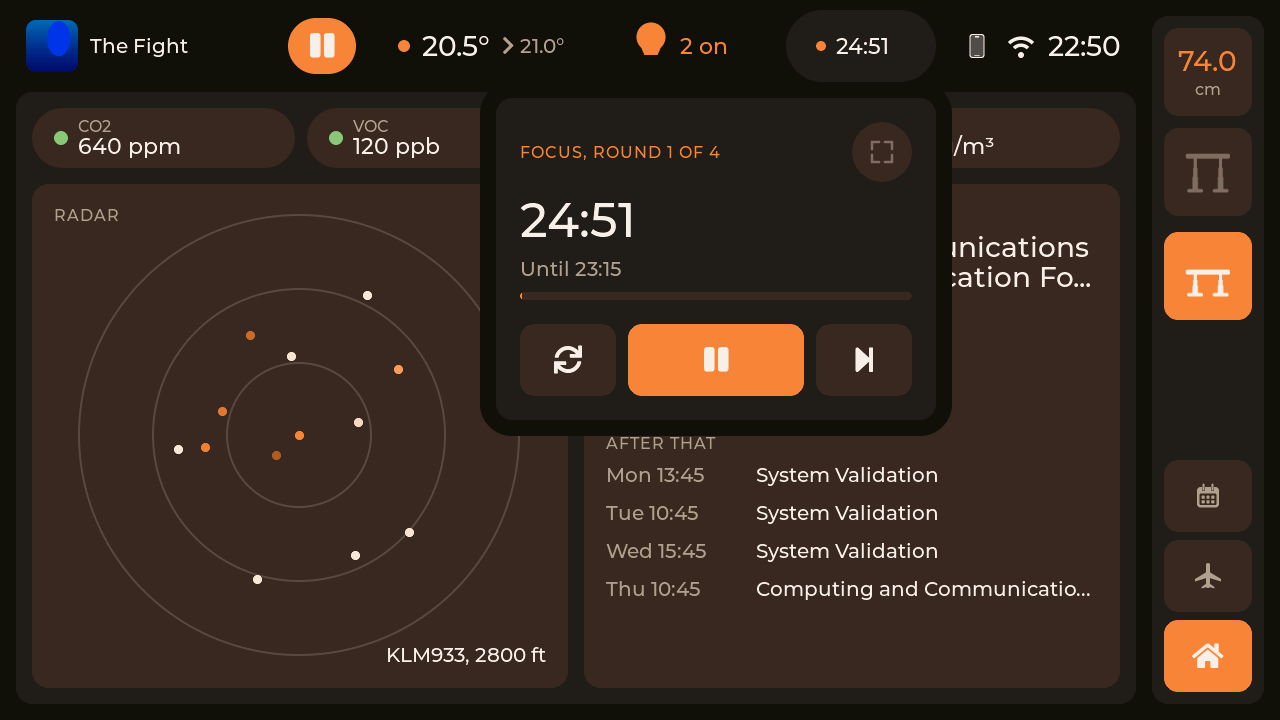
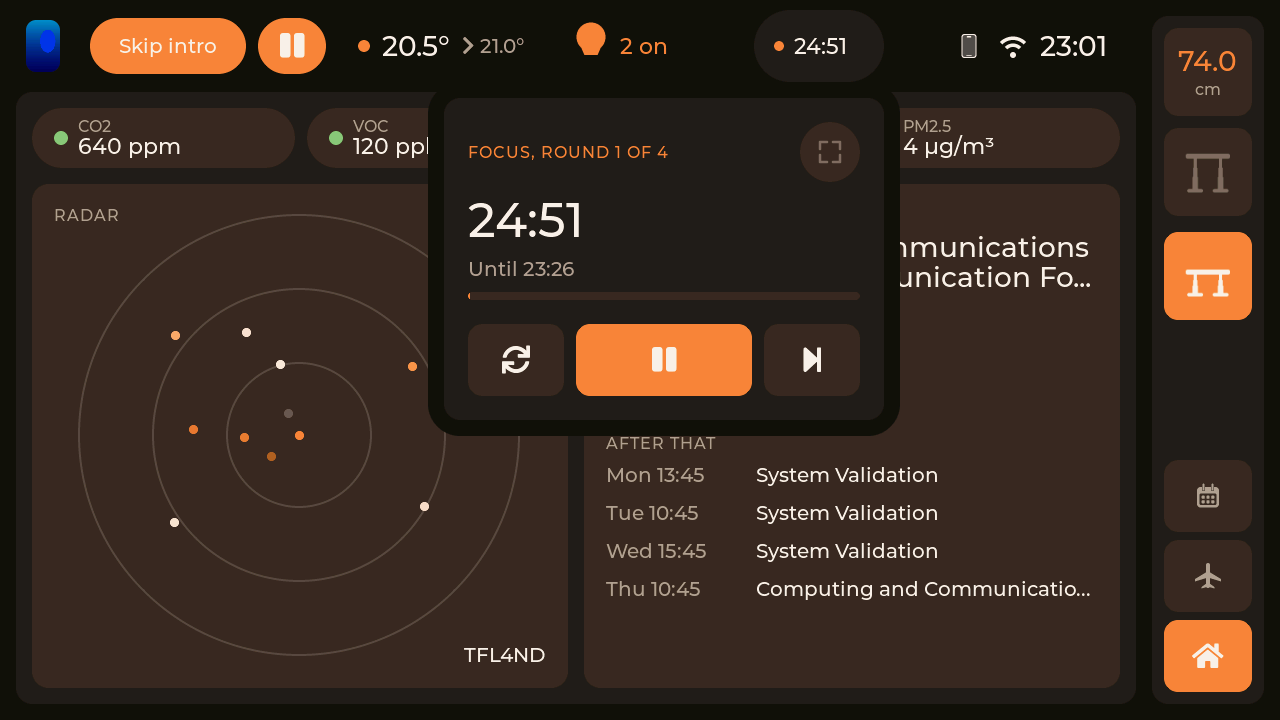
Give what plays in the bar what Home's card had: a poster whole rather than cut square, Skip intro or Next episode in the title's place while it is offered, a video's series and episode in its card, a hold sending the desk to the preset set for it or opening the favourites while nothing plays, and a

diff --git a/components/ui/control_bar.cpp b/components/ui/control_bar.cpp
@@ -19,9 +19,12 @@ namespace {
 constexpr std::int32_t BTN_H        = 56;  // a button inside a slot
 constexpr std::int32_t SLOT_PAD     = 10;
 constexpr std::int32_t SLOT_TAP     = 6;   // half the gap to the next slot, which takes the rest
-constexpr std::int32_t MEDIA_W      = 350;
-constexpr std::int32_t HEAT_W       = 210;
-constexpr std::int32_t LIGHTS_W     = 170;
+// With the timer and the status, as wide as the bar is with the battery and an
+// update both showing, so nothing ever runs off its end.
+constexpr std::int32_t MEDIA_W      = 320;
+constexpr std::int32_t HEAT_W       = 190;
+constexpr std::int32_t LIGHTS_W     = 150;
+constexpr std::uint32_t SKIP_CHECK_MS = 500;
 constexpr std::int32_t THUMB        = 52;
 constexpr std::int32_t THUMB_RADIUS = 10;
 constexpr std::int32_t PLAY_W       = 68;
@@ -88,6 +91,7 @@ void open_under(Popout &p, lv_obj_t *slot)
 // A cover to show at any size: its own descriptor, pointed at the model's
 // pixels, scaled into the frame it is in.
 struct Cover {
+    std::int32_t   side  = 0;        // its height, and its width for a square cover
     lv_obj_t      *frame = nullptr;
     lv_obj_t      *image = nullptr;
     lv_obj_t      *mark  = nullptr;  // shown while there is none
@@ -98,6 +102,7 @@ struct Cover {
 
 void build_cover(Cover &cover, lv_obj_t *parent, std::int32_t side, std::int32_t radius)
 {
+    cover.side  = side;
     cover.frame = lv_obj_create(parent);
     theme::style_panel(cover.frame, theme::panel_light, radius);
     lv_obj_set_size(cover.frame, side, side);
@@ -127,6 +132,13 @@ void paint_cover(Cover &cover)
     const bool        shown = media.has_track && media.art != nullptr;
     lv_obj_set_hidden(cover.image, !shown);
     lv_obj_set_hidden(cover.mark, shown);
+    // A poster is kept whole, as narrow as it is, rather than cut to a square.
+    const std::int32_t w = shown ? std::max<std::int32_t>(1, cover.side * media.art_width / media::kArtSize) : cover.side;
+    if (lv_obj_get_width(cover.frame) != w) {
+        lv_obj_set_width(cover.frame, w);
+        lv_obj_set_size(cover.image, w, cover.side);
+        lv_obj_center(cover.image);
+    }
     if (!shown || media.covers == cover.covers) {
         return;
     }
@@ -158,12 +170,16 @@ lv_obj_t *s_media_slot  = nullptr;
 Cover     s_slot_cover;
 lv_obj_t *s_slot_title  = nullptr;
 lv_obj_t *s_slot_play   = nullptr;
+lv_obj_t *s_slot_skip   = nullptr;  // Skip intro, or Next episode, over the title while it is offered
+bool      s_media_held  = false;    // a hold fires LONG_PRESSED and then CLICKED on release
 
 Popout    s_media_pop;
 Cover     s_card_cover;
 lv_obj_t *s_card_source = nullptr;
 lv_obj_t *s_card_title  = nullptr;
 lv_obj_t *s_card_artist = nullptr;
+lv_obj_t *s_card_episode = nullptr;  // a video's season and episode, under its series
+lv_obj_t *s_card_full   = nullptr;
 lv_obj_t *s_card_prev   = nullptr;
 lv_obj_t *s_card_next   = nullptr;
 lv_obj_t *s_volume      = nullptr;
@@ -203,6 +219,9 @@ void paint_media()
     theme::set_text(s_card_source, media.source);
     theme::set_text(s_card_title, media.has_track ? media.title : "Nothing playing");
     theme::set_text(s_card_artist, media.has_track ? artist : "");
+    const char *episode = std::strchr(media.artist, '\n');
+    theme::set_text(s_card_episode, media.has_track && episode != nullptr ? episode + 1 : "");
+    theme::set_usable(s_card_full, media.has_track);
     theme::set_text(lv_obj_get_child(s_card_prev, 0), media.video ? "-10 s" : LV_SYMBOL_PREV);
     theme::set_text(lv_obj_get_child(s_card_next, 0), media.video ? "+10 s" : LV_SYMBOL_NEXT);
     for (lv_obj_t *button : {s_card_prev, s_card_next}) {
@@ -213,6 +232,46 @@ void paint_media()
         show_volume(media.volume);
     }
     paint_cover(s_card_cover);
+}
+
+void open_full_view()
+{
+    if (!media_state().has_track) {
+        return;
+    }
+    open_popout(s_media_pop, false);
+    media_is_video() ? open_cinema() : open_music();
+}
+
+// Its card on a tap. Held: the favourites while nothing plays, or the desk to
+// the preset set for what plays, as the cinema view's low desk.
+void media_touched(lv_event_t *e)
+{
+    const MediaState &media = media_state();
+    if (lv_event_get_code(e) == LV_EVENT_LONG_PRESSED) {
+        s_media_held = true;
+        if (!media.has_track) {
+            open_favourites();
+        } else if (media.hold_preset >= 0) {
+            desk_go_to(media.hold_preset);
+        } else {
+            open_full_view();
+        }
+        return;
+    }
+    if (!std::exchange(s_media_held, false)) {
+        open_under(s_media_pop, s_media_slot);
+    }
+}
+
+void skip_check(lv_timer_t *)
+{
+    const MediaSkip offer = media_skip_offer();
+    lv_obj_set_hidden(s_slot_skip, offer.text == nullptr);
+    lv_obj_set_hidden(s_slot_title, offer.text != nullptr);
+    if (offer.text != nullptr) {
+        theme::set_text(lv_obj_get_child(s_slot_skip, 0), offer.text);
+    }
 }
 
 void play_clicked(lv_event_t *)
@@ -256,8 +315,8 @@ void volume_touched(lv_event_t *e)
 void build_media_slot(lv_obj_t *bar)
 {
     s_media_slot = make_slot(bar, MEDIA_W);
-    lv_obj_add_event_cb(s_media_slot, [](lv_event_t *) { open_under(s_media_pop, s_media_slot); }, LV_EVENT_CLICKED,
-                        nullptr);
+    lv_obj_add_event_cb(s_media_slot, media_touched, LV_EVENT_CLICKED, nullptr);
+    lv_obj_add_event_cb(s_media_slot, media_touched, LV_EVENT_LONG_PRESSED, nullptr);
     build_cover(s_slot_cover, s_media_slot, THUMB, THUMB_RADIUS);
     lv_obj_align(s_slot_cover.frame, LV_ALIGN_LEFT_MID, 0, 0);
 
@@ -265,6 +324,19 @@ void build_media_slot(lv_obj_t *bar)
     const std::int32_t text_w = MEDIA_W - 2 * SLOT_PAD - text_x - PLAY_W - TEXT_GAP;
     s_slot_title              = one_line(s_media_slot, theme::text, fonts::size_20(), text_w);
     lv_obj_align(s_slot_title, LV_ALIGN_LEFT_MID, text_x, 0);
+    // Where the title is, while an intro or the credits run: one tap, as Home's card had it.
+    s_slot_skip = theme::make_button(s_media_slot, "Skip intro", theme::panel_light, theme::type_body());
+    theme::fill_accent(s_slot_skip);
+    lv_obj_set_size(s_slot_skip, text_w, BTN_H);
+    lv_obj_set_style_radius(s_slot_skip, BTN_H / 2, 0);
+    lv_obj_align(s_slot_skip, LV_ALIGN_LEFT_MID, text_x, 0);
+    lv_obj_add_event_cb(s_slot_skip, [](lv_event_t *) {
+        media_skip();
+        lv_obj_set_hidden(s_slot_skip, true);
+        lv_obj_set_hidden(s_slot_title, false);
+    }, LV_EVENT_CLICKED, nullptr);
+    lv_obj_set_hidden(s_slot_skip, true);
+    lv_timer_create(skip_check, SKIP_CHECK_MS, nullptr);
 
     s_slot_play = theme::make_button(s_media_slot, LV_SYMBOL_PLAY, theme::panel_light, fonts::size_28());
     lv_obj_set_size(s_slot_play, PLAY_W, BTN_H);
@@ -292,27 +364,42 @@ void build_media_card(lv_obj_t *screen)
     lv_obj_set_style_pad_column(card, CARD_GAP, 0);
     const std::int32_t inner = MEDIA_CARD_W - 2 * CARD_PAD;
 
-    // The cover opens the fullscreen view, as the card on Home did.
-    build_cover(s_card_cover, card, COVER, theme::radius::control);
+    // A row of its own across the card: the cover, what plays, and fullscreen,
+    // however narrow a poster leaves the cover.
+    lv_obj_t *head = lv_obj_create(card);
+    lv_obj_remove_style_all(head);
+    lv_obj_set_size(head, inner, COVER);
+    lv_obj_set_flex_flow(head, LV_FLEX_FLOW_ROW);
+    lv_obj_set_flex_align(head, LV_FLEX_ALIGN_START, LV_FLEX_ALIGN_START, LV_FLEX_ALIGN_START);
+    lv_obj_set_style_pad_column(head, CARD_GAP, 0);
+    lv_obj_set_clickable(head, false);
+
+    // The cover opens the fullscreen view too, as the card on Home did.
+    build_cover(s_card_cover, head, COVER, theme::radius::control);
     lv_obj_set_clickable(s_card_cover.frame, true);
-    lv_obj_add_event_cb(s_card_cover.frame, [](lv_event_t *) {
-        if (!media_state().has_track) {
-            return;
-        }
-        open_popout(s_media_pop, false);
-        media_is_video() ? open_cinema() : open_music();
-    }, LV_EVENT_CLICKED, nullptr);
-    lv_obj_t *text = lv_obj_create(card);
+    lv_obj_add_event_cb(s_card_cover.frame, [](lv_event_t *) { open_full_view(); }, LV_EVENT_CLICKED, nullptr);
+    lv_obj_t *text = lv_obj_create(head);
     lv_obj_remove_style_all(text);
-    lv_obj_set_size(text, inner - COVER - CARD_GAP, COVER);
+    lv_obj_set_height(text, COVER);
+    lv_obj_set_flex_grow(text, 1);
     lv_obj_set_flex_flow(text, LV_FLEX_FLOW_COLUMN);
     lv_obj_set_flex_align(text, LV_FLEX_ALIGN_CENTER, LV_FLEX_ALIGN_START, LV_FLEX_ALIGN_START);
     lv_obj_set_style_pad_row(text, theme::space::xs, 0);
     lv_obj_set_clickable(text, false);
-    const std::int32_t text_w = inner - COVER - CARD_GAP;
-    s_card_source = one_line(text, theme::secondary, theme::type_label(), text_w);
-    s_card_title  = one_line(text, theme::text, fonts::size_22(), text_w);
-    s_card_artist = one_line(text, theme::secondary, fonts::size_16(), text_w);
+    const std::int32_t text_w = inner - COVER - 2 * CARD_GAP - theme::chip::size;
+    s_card_source  = one_line(text, theme::secondary, theme::type_label(), text_w);
+    s_card_title   = one_line(text, theme::text, fonts::size_22(), text_w);
+    s_card_artist  = one_line(text, theme::secondary, fonts::size_16(), text_w);
+    s_card_episode = one_line(text, theme::secondary, fonts::size_16(), text_w);
+    for (lv_obj_t *line : {s_card_source, s_card_title, s_card_artist, s_card_episode}) {
+        lv_obj_set_width(line, lv_pct(100));
+    }
+
+    // Fullscreen: the cinema view for a video, the music view else.
+    s_card_full = theme::make_chip(head, "");
+    theme::make_mark(s_card_full, &icons::expand_icon);
+    lv_obj_set_style_bg_color(s_card_full, lv_color_hex(theme::panel_light), 0);
+    lv_obj_add_event_cb(s_card_full, [](lv_event_t *) { open_full_view(); }, LV_EVENT_CLICKED, nullptr);
 
     const std::int32_t half = (inner - CARD_GAP) / 2;
     s_card_prev = card_button(card, LV_SYMBOL_PREV, half);

diff --git a/components/ui/fullscreen_chrome.cpp b/components/ui/fullscreen_chrome.cpp
@@ -174,7 +174,7 @@ constexpr std::int32_t STATUS_GAP       = 10;  // between what the top row holds
 constexpr std::int32_t SLOT_W           = 34;  // each of the status's marks, centred in one as wide
 constexpr std::int32_t SLOT_GAP         = 10;
 constexpr std::int32_t TAP_MARGIN       = 20;  // round the badge and the status, to be hit easily
-constexpr std::int32_t TIMER_W          = 150;  // the timer's slot, whatever it says
+constexpr std::int32_t TIMER_W          = 130;  // the timer's slot, whatever it says
 constexpr std::int32_t UPDATE_ICON_SIDE = 28;
 constexpr std::int32_t UPDATE_BAR_H     = 3;
 constexpr std::int32_t UPDATE_BAR_GAP   = 4;
@@ -238,8 +238,8 @@ void paint_status()
     if (std::exchange(s_wifi_shown, status.wifi ? 1 : 0) != (status.wifi ? 1 : 0)) {
         lv_image_set_src(s_wifi_icon, status.wifi ? &icons::wifi_icon : &icons::wifi_off_icon);
     }
+    // Its place is kept while plugged in, so the status keeps one width.
     show_power(*s_top);
-    lv_obj_set_hidden(s_slots[0], !status.on_battery);
     show_top_focus();
 }
 

diff --git a/README.md b/README.md
@@ -53,7 +53,7 @@ Once the screen was there, the extra features kept coming, each one making it a 
 
 ![The home page with music on the speaker](docs/screenshots/home-music.png)
 
-This is what the panel shows most of the day. Two things are on every page, in the same place whatever happens. The dock at the side has the desk's height at its head with Stand and Sit under it, and the pages standing up from its foot, Home lowest, then Radar and Calendar. The control bar along the top has what gets touched every day: what is playing with play and pause right there, the heating, the lights, the focus timer, and the time with the phone, Wi-Fi and the battery while it is unplugged. A tap on the track drops its card with skip, the volume and the favourites; on the heating, its dial; a tap on the lights turns them all on or off, and holding it shows each light. A tap on the time opens Setup.
+This is what the panel shows most of the day. Two things are on every page, in the same place whatever happens. The dock at the side has the desk's height at its head with Stand and Sit under it, and the pages standing up from its foot, Home lowest, then Radar and Calendar. The control bar along the top has what gets touched every day: what is playing with play and pause right there, the heating, the lights, the focus timer, and the time with the phone, Wi-Fi and the battery while it is unplugged. A tap on the track drops its card with skip, the volume, the favourites and the way into the cinema or music view, and while an episode's intro or credits run, Skip intro or Next episode takes the title's place; a tap on the heating drops its dial; a tap on the lights turns them all on or off, and holding it shows each light. A tap on the time opens Setup.
 
 Home itself is for looking at: the air across the top, each reading with a dot for how it is doing, the sky overhead with every aircraft in its height's colour, and what comes next on the calendar with the few after it. A tap on either opens its page.
 
